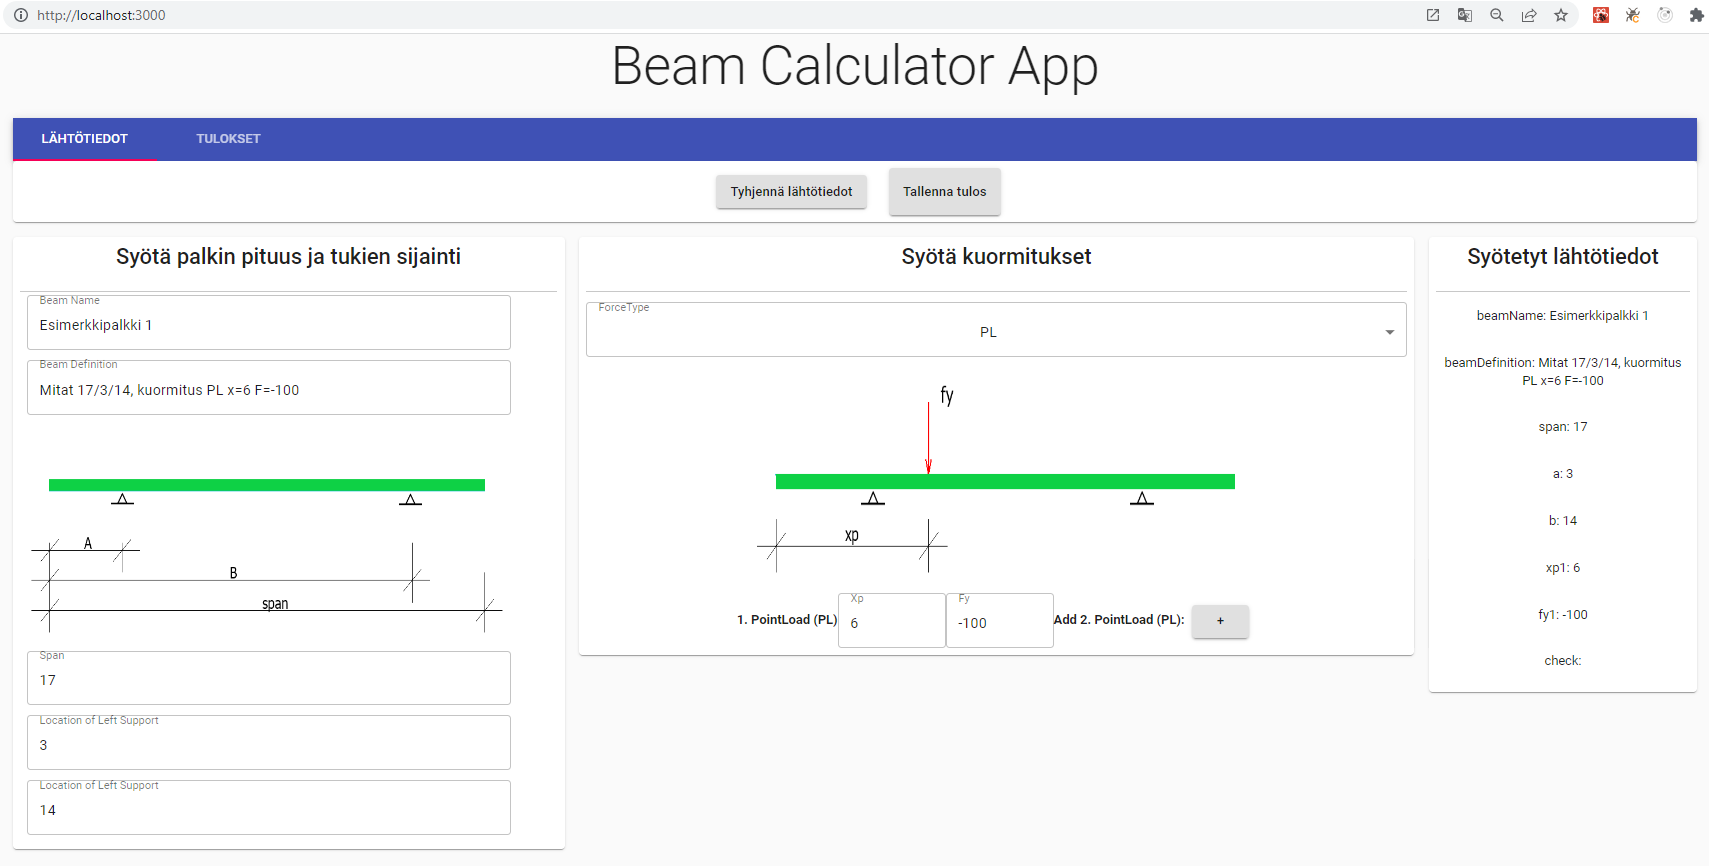
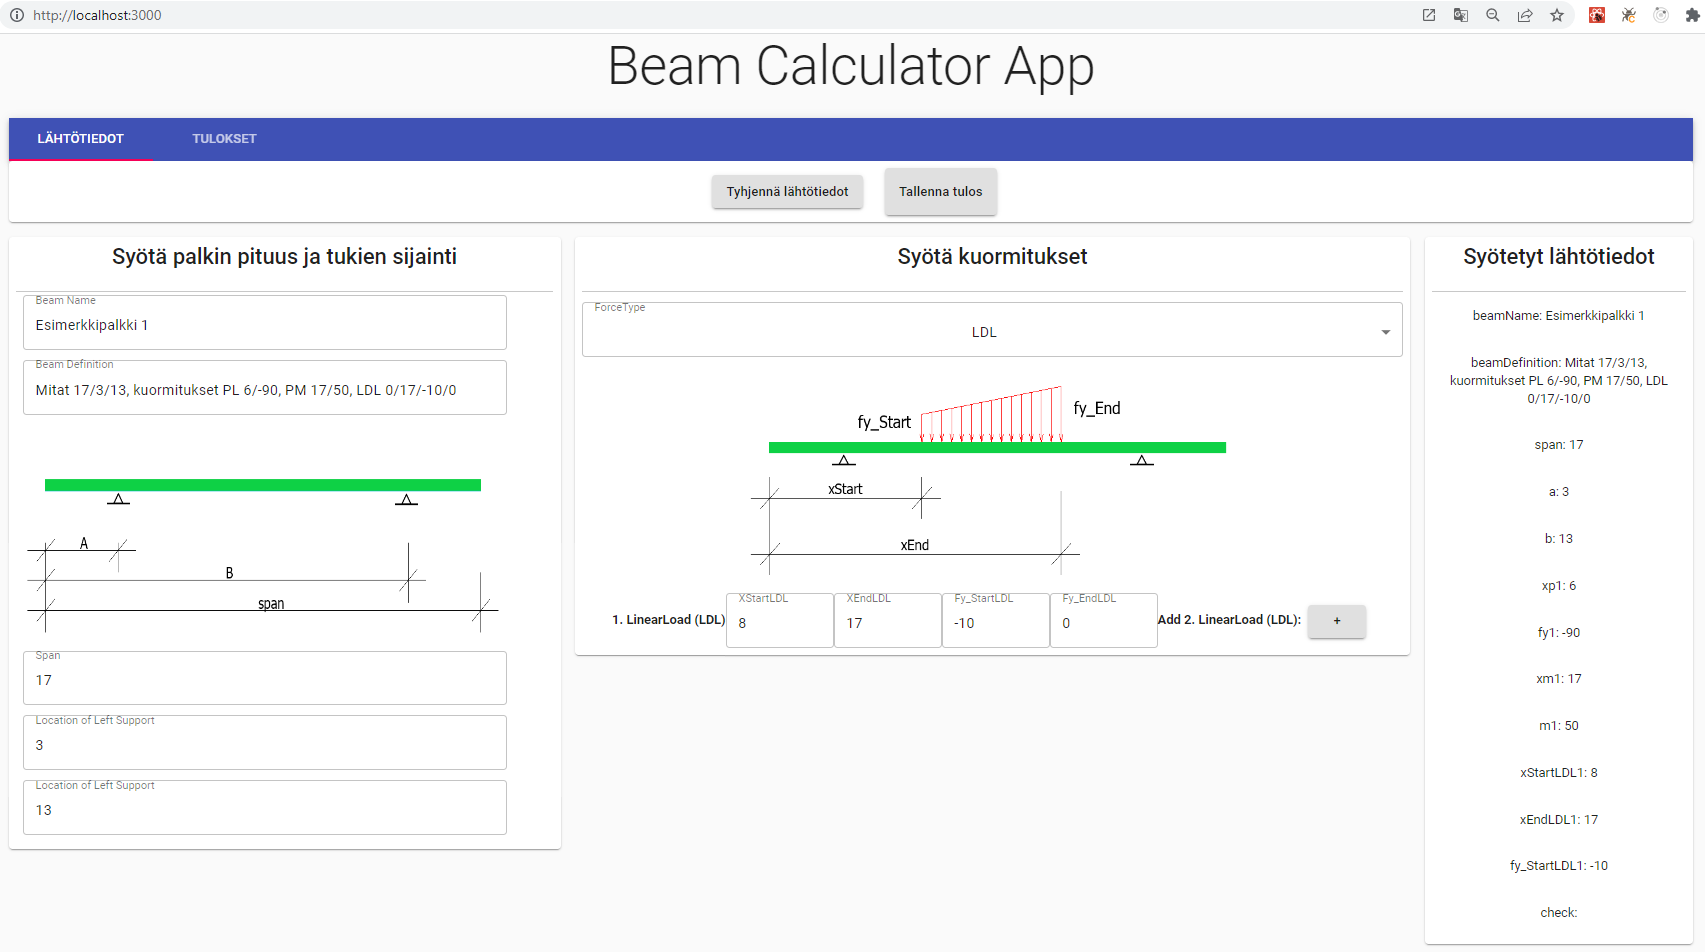
uusia kuvia

diff --git a/react-app/README.md b/react-app/README.md
@@ -11,10 +11,16 @@ Lähtötietojen syöttö ja tulokset eriytetty eri sivustolle.
 App.js sisältää vain Home.js. Home.js:ssä luodaan välilehdet.
 Home.js sisällä on  
 Tallennetut tulokset näkyvät popup-sivuna.
-### Kuvia Layout:sta
-
+### Kuvia Layout:sta ja laskennan kulku
 ![Kuva](./src/images/layout_lähtötiedot.png)
+Syötä palkin pituus ja tukien sijainnit. 
+Kuormien syötössä valitse ensin kuormatyyppi (forceType) alasvetovalikosta ja anna kuormituksen arvot. Syötetyt arvot näkyvät oikeassa laidassa. Jos arvo on 0, niin se ei tule näkyviin, kun se on jo syötetty lähtöarvoksi.
+Kun olet syöttänyt kaikki lähtötiedot, mene Tulokset-välilehdelle.
 ![Kuva](./src/images/layout_tulokset.png)
+Paina Laske tulos-nappia. Saat tulokseksi Taivutusmomentti- ja Leikkausvoimakäyrät ja niiden maksimiarvot. 
+Jos haluat tallentaa nämä tietokantaan, mene uudelleen Lähtötiedot-välilehdelle ja paina Tallenna tulos-nappia. 
+![Kuva](./src/images/layout_tallennetut_tulokset.png)
+Tallennetut tulokset saat näkyviin painamalla Tulokset-välilehden Tallennetut Tulokset-nappia. 
 
 
 ## Käynnistys
@@ -25,7 +31,6 @@ Ohjelma käynnistyy terminaalissa komennolla `npm start`
 - react-chartjs-2
 - Hooks: useState, useEffect
 - react-chartjs-2
-- bootstrap
 - material-ui
 
 ## Vinkkejä
@@ -33,5 +38,6 @@ Ohjelma käynnistyy terminaalissa komennolla `npm start`
 
 ## Laskentaesimerkki
 ![Kuva](./src/images/exampleCase.png)
+Kuvia Layout:sta ja laskennan kulku-kohdassa laskin tämän laskentatapauksen.
 
 Copyright © Timo Kivelä
